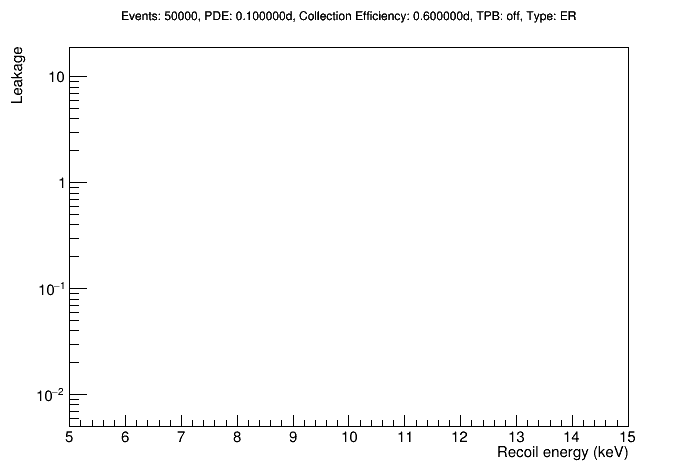
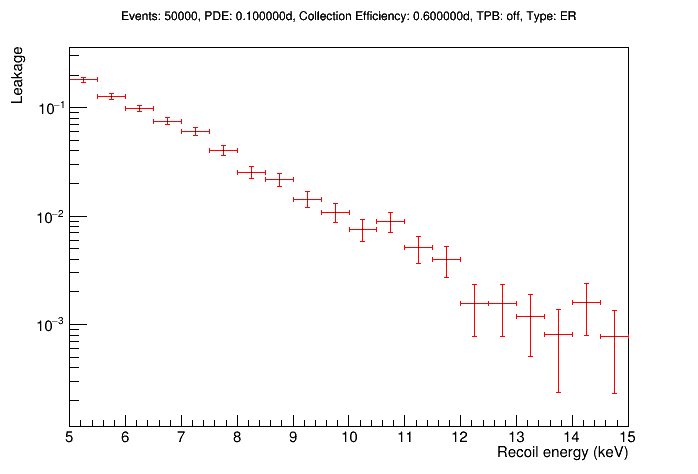
fixed CDP and DN mistakes

diff --git a/SiPMMC/RunMC.c b/SiPMMC/RunMC.c
@@ -152,7 +152,7 @@ void RunMC(long evt_max, int IsTPBon, int seed, TString evt_type)
   TString tpb = "";
   if (IsTPBon==1){tpb="TPBon";}
   else if (IsTPBon==0){tpb="TPBoff";}
-  TString filename = "Data/SiPM_"+num+"_"+name_pde+"_"+name_coll_eff+"_"+nSeed+"_"+tpb+"_"+evt_type+"_oldCDP.root";
+  TString filename = "Data/SiPM_"+num+"_"+name_pde+"_"+name_coll_eff+"_"+nSeed+"_"+tpb+"_"+evt_type+"_newCDP_newDN.root";
   TFile *fout = TFile::Open(filename,"recreate");
 
   //defining variables to save in the TTree
@@ -310,10 +310,10 @@ void RunMC(long evt_max, int IsTPBon, int seed, TString evt_type)
 	    {
 	      for (int ap=0; ap<n; ap++)
 		{
-//		  Double_t cdp_extra_time = time_window-time_trigger+1.;
-//                  while (cdp_extra_time>(time_window-time_trigger)){cdp_extra_time=hCDP->GetRandom();}
-		  double ap_time = pp_time + hCDP->GetRandom();
-//		  double ap_time = pp_time + cdp_extra_time;
+		  Double_t cdp_extra_time = time_window-time_trigger+1.;
+                  while (cdp_extra_time>(time_window-time_trigger)){cdp_extra_time=hCDP->GetRandom();}
+//		  double ap_time = pp_time + hCDP->GetRandom();
+		  double ap_time = pp_time + cdp_extra_time;
 		  pht_st.push_back(ap_time);
 		}//end for loop
 	    }//end if-else loop
@@ -374,9 +374,9 @@ void RunMC(long evt_max, int IsTPBon, int seed, TString evt_type)
 //	long index = find(energy, energy+size, bin+0.5) - energy;
 //	if (rec_psd>nuclear[index] & rec_psd!=0 & rec_psd!=1) leak_energy = erecoil;
 //	else leak_energy = -1;
-//	//count the number of good events
-//	if (rec_psd!=0 & rec_psd!=1) tot_good_nrg = erecoil;
-//	else tot_good_nrg = -1;
+	//count the number of good events
+	if (rec_psd!=0 & rec_psd!=1) tot_good_nrg = erecoil;
+	else tot_good_nrg = -1;
 //      }
 
       //Fill TTree

diff --git a/SiPMMC/ConstCompare.c b/SiPMMC/ConstCompare.c
@@ -99,6 +99,8 @@ void ConstCompare(int len, TString files[len], long total_evts=0, TString var=""
     c1->SetLogy();
     hLeak->Sumw2();
     hEnergy->Sumw2();
+//for (int i=1;i<numbins+1;i++) cout << "energy: " << hLeak->GetBinCenter(i)-0.25 << " leak: " << hLeak->GetBinContent(i) << endl;
+//for (int i=1;i<numbins+1;i++) cout << "energy: " << hEnergy->GetBinCenter(i)-0.25 << " tot_good_nrg: " << hEnergy->GetBinContent(i) << endl;
     hLeakEnergy = new TH1D(*hLeak);
     if (len>1){
       hLeakEnergy->SetMaximum(0.3);
@@ -114,6 +116,7 @@ for (int i=1;i<numbins+1;i++) cout << "energy: " << hLeakEnergy->GetBinCenter(i)
 	hLeakEnergy->SetTitle("Events: "+num+", Collection Efficiency: "+name_coll_eff+", TPB: "+OnOff+", Type: "+evt_type+"R");
 	leg1 = new TLegend(.65,.89-0.03*len,.89,.89);
 	leg1->AddEntry(hLeakEnergy, "PDE: "+name_pde, "L");
+//	leg1->AddEntry(hLeakEnergy, "0", "L");
     }
     else if (var=="LC"){
 	hLeakEnergy->SetTitle("Events: "+num+", PDE: "+name_pde+", TPB: "+OnOff+", Type: "+evt_type+"R");
@@ -199,6 +202,8 @@ for (int i=1;i<numbins+1;i++) cout << "energy: " << hLeakEnergy->GetBinCenter(i)
 	if (evt_type=='E'){
 	    hLeakEnergy->Draw("E1same");
 	    if (var=="PDE") leg1->AddEntry(hLeakEnergy, "PDE: "+name_pde, "L");
+//	    TString name_i = Form("%id",i);
+//	    if (var=="PDE") leg1->AddEntry(hLeakEnergy, name_i, "L");
 	    else if (var=="LC") leg1->AddEntry(hLeakEnergy, " LC: "+name_coll_eff, "L");
 	    leg1->Draw("same");
 	}
